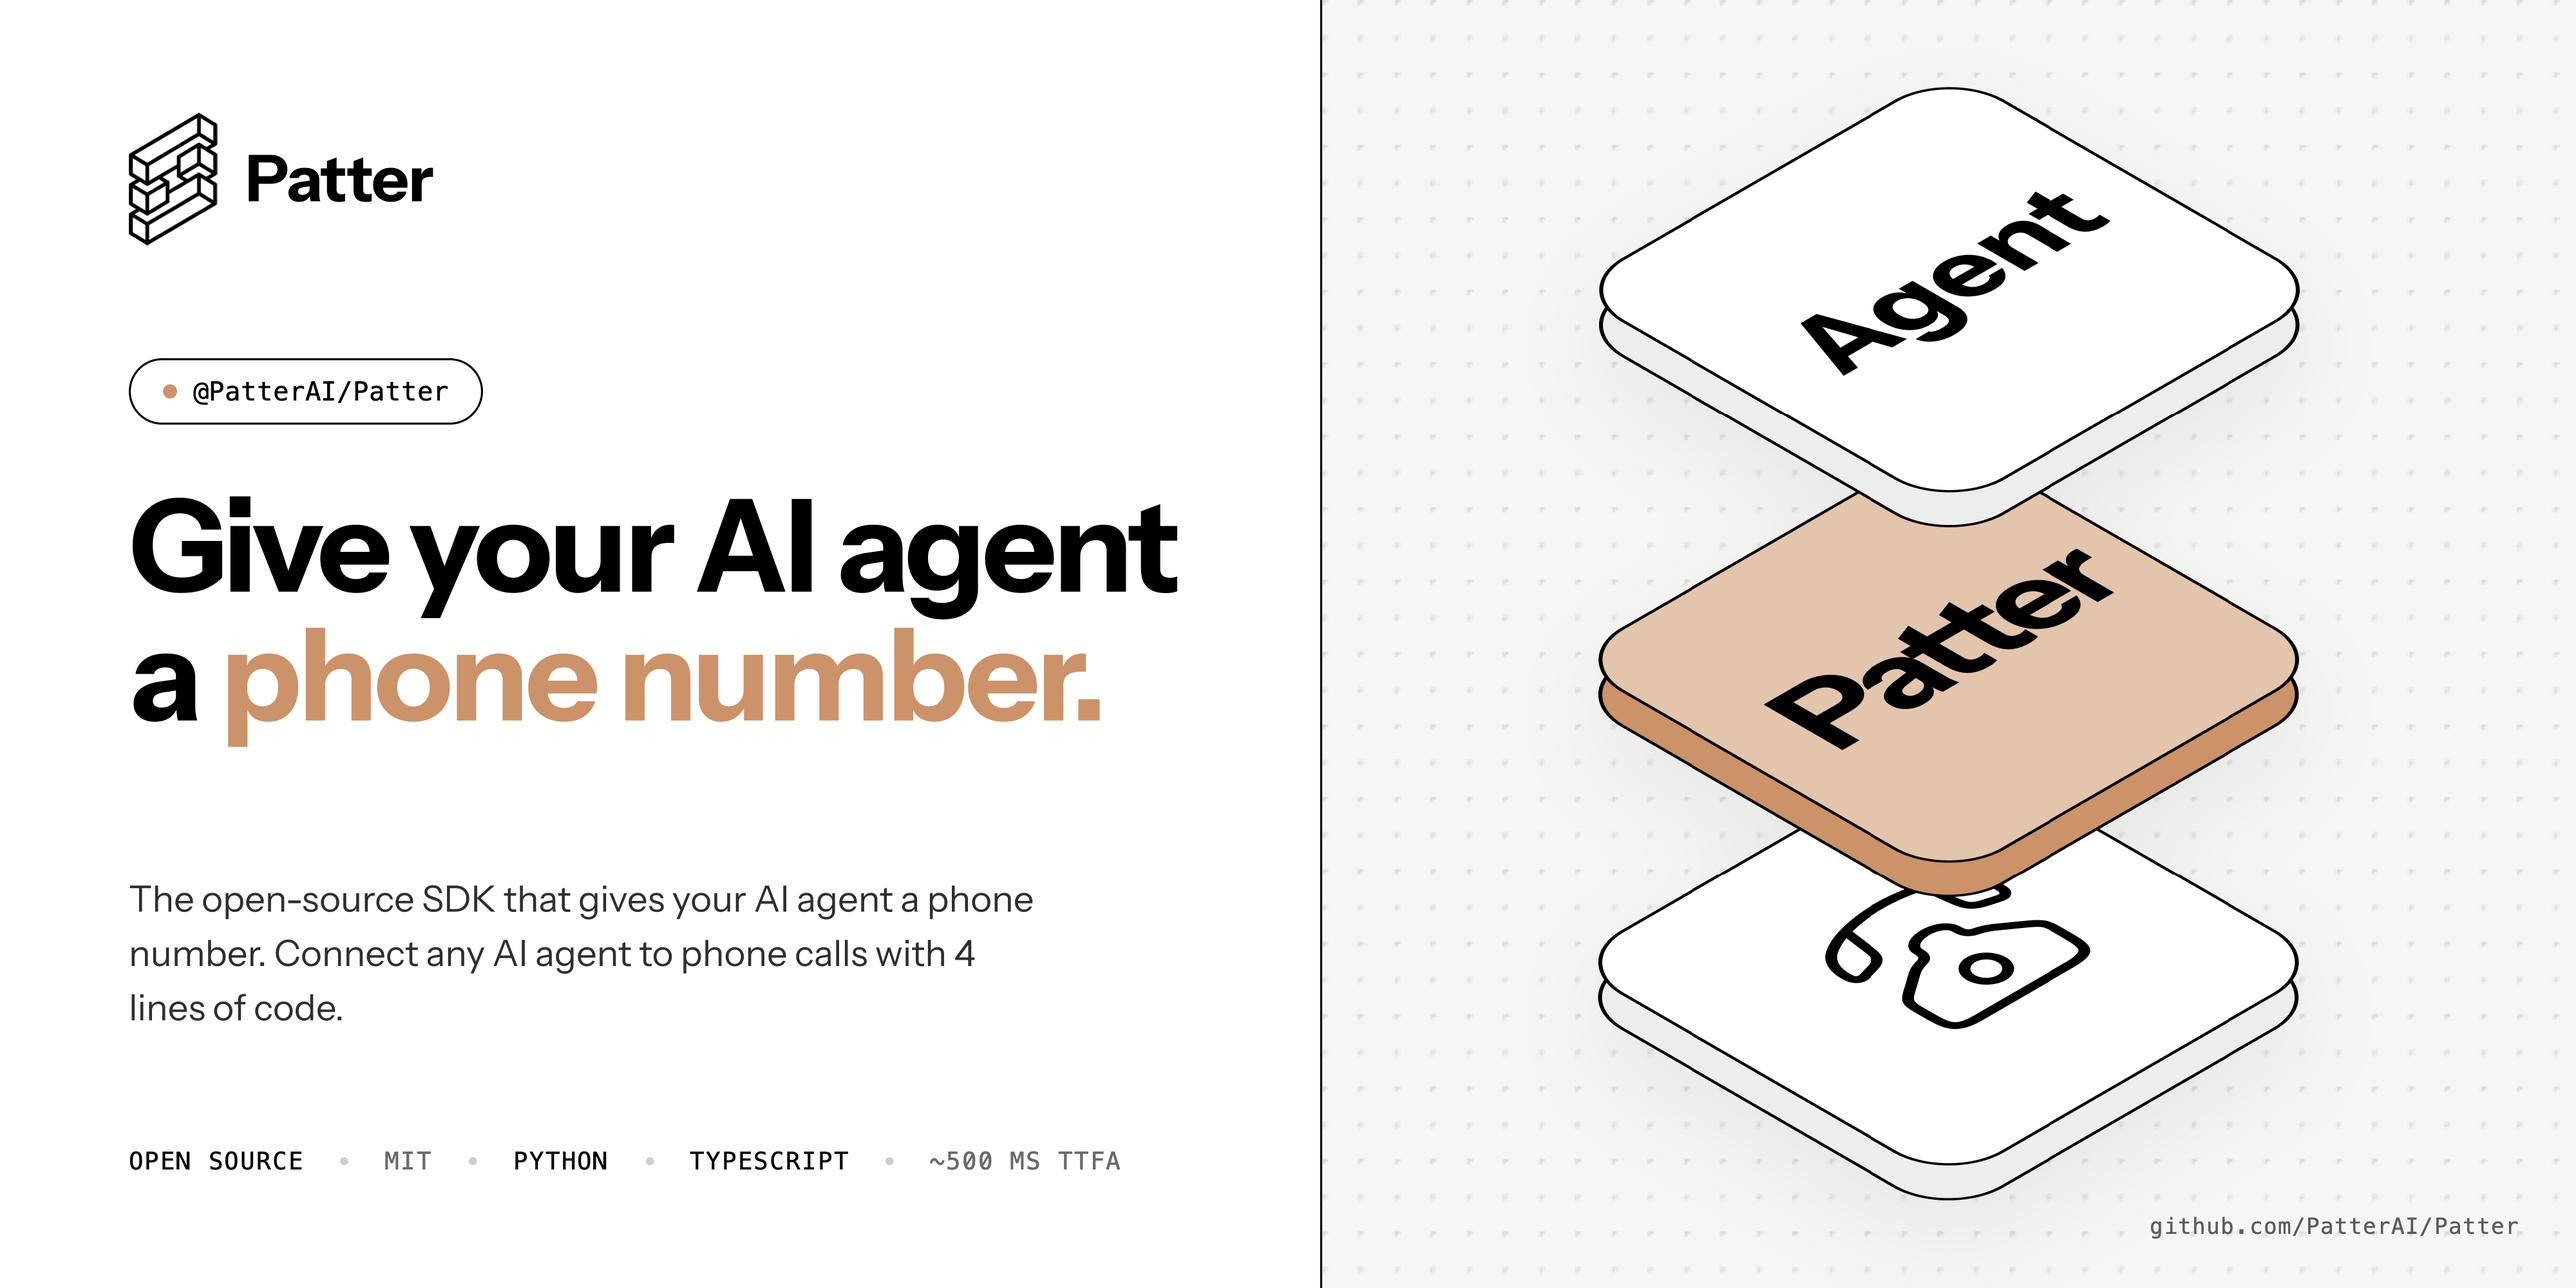
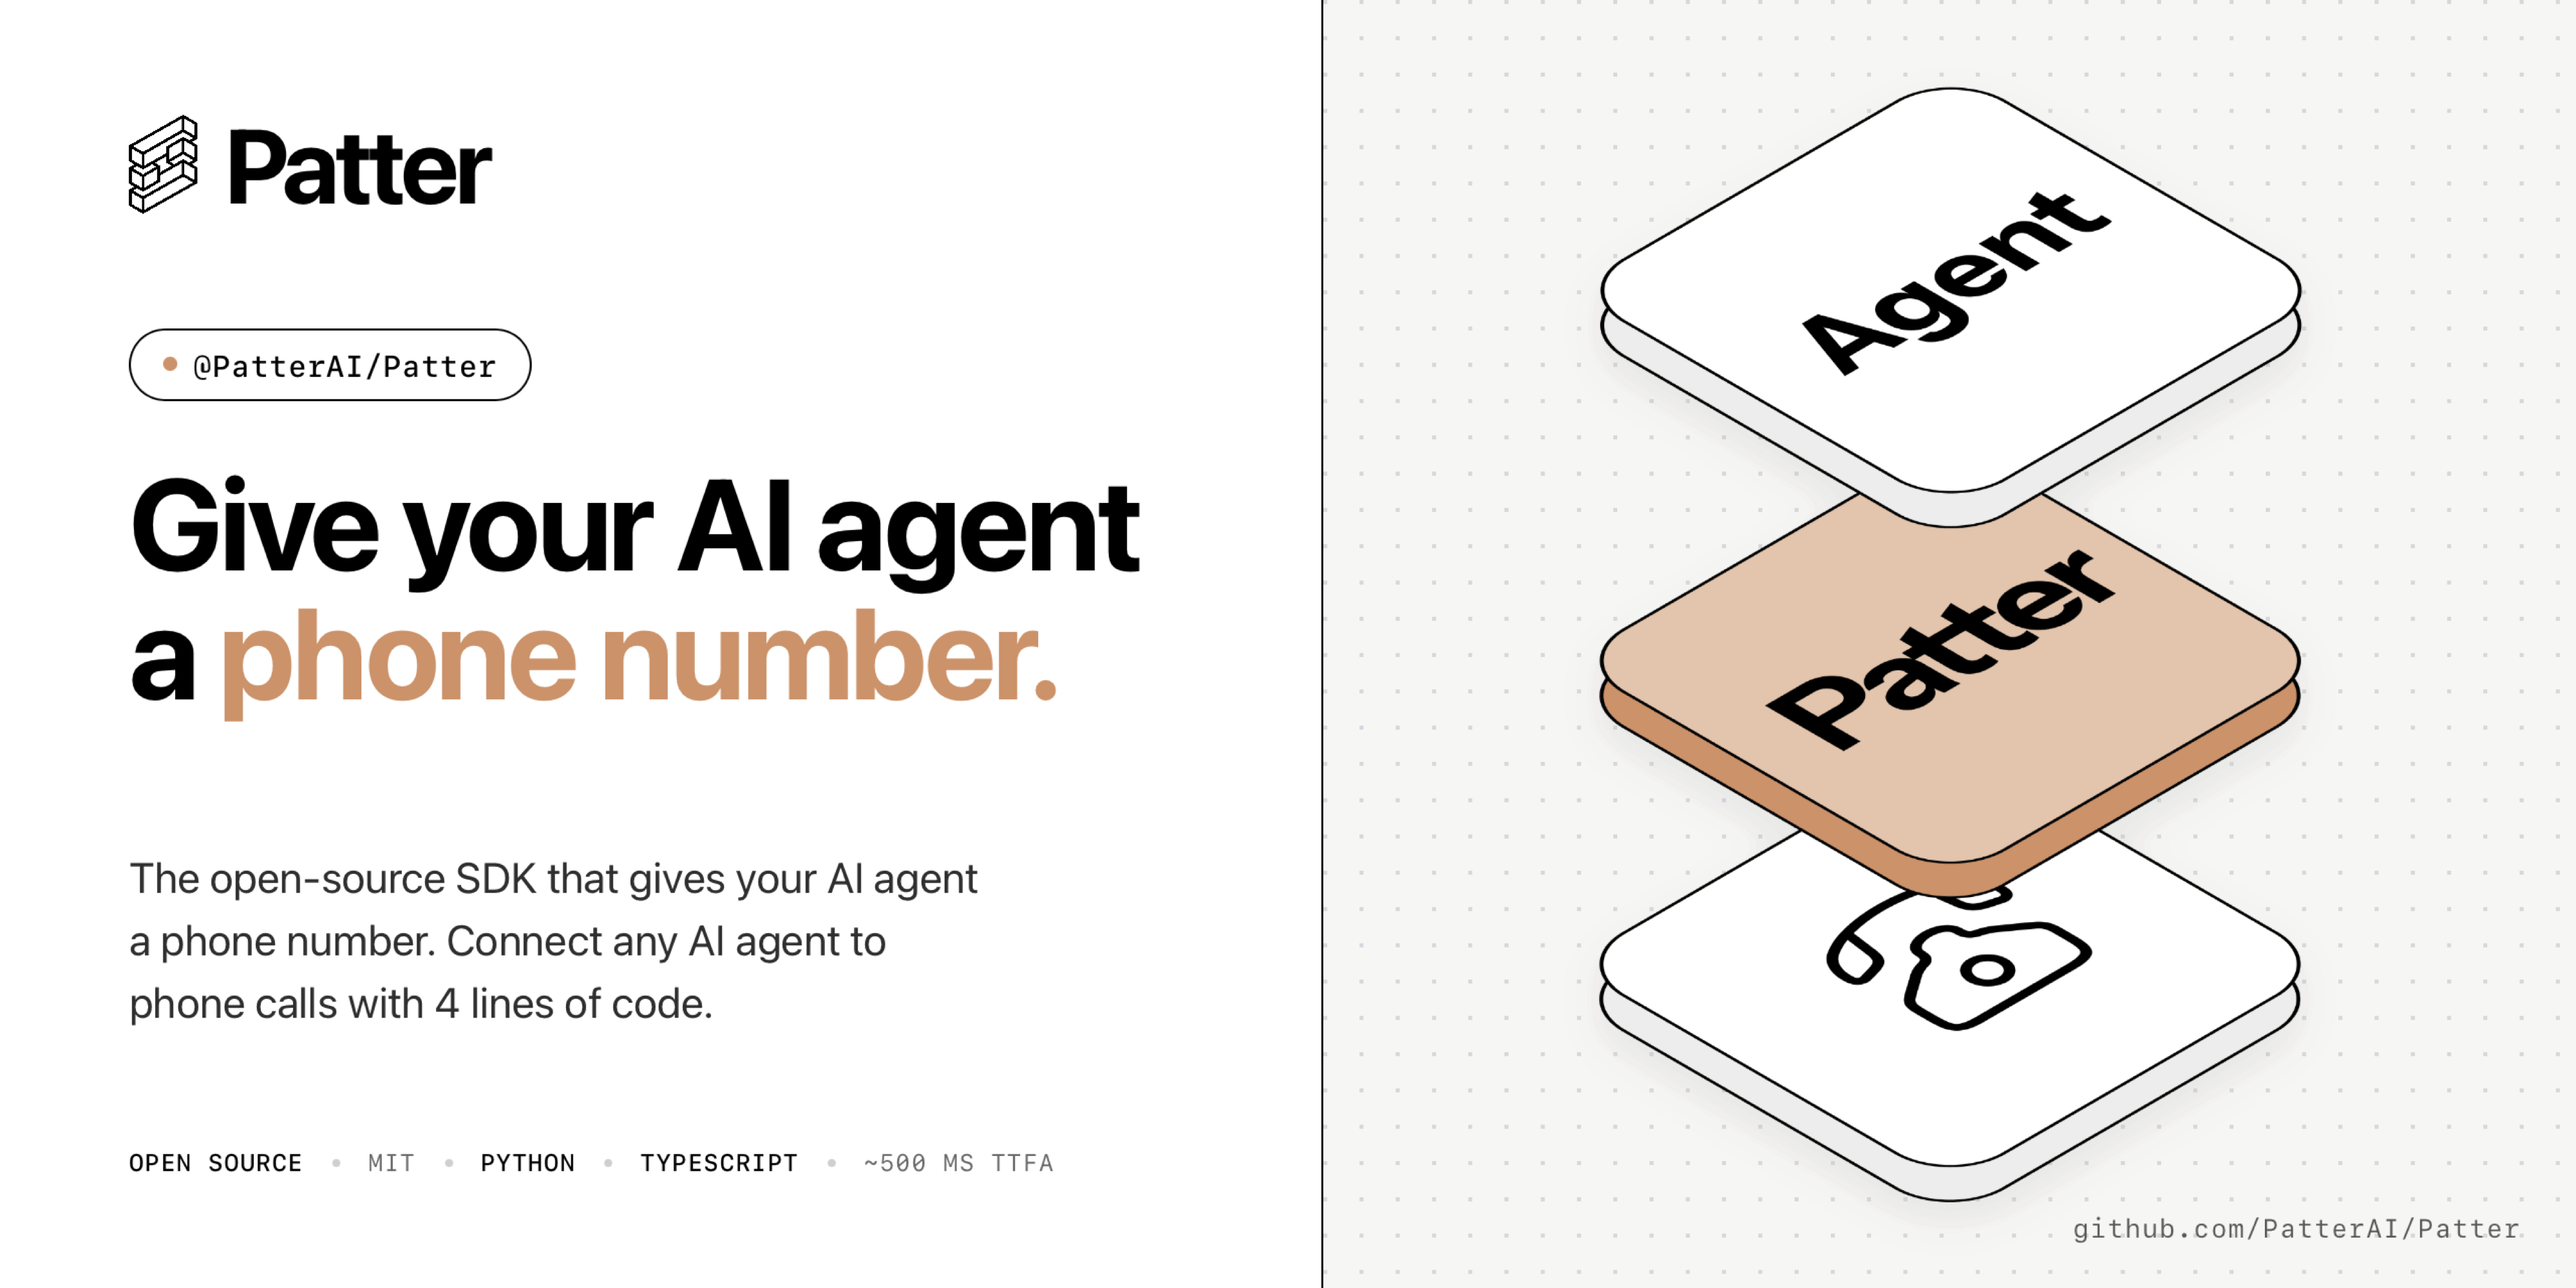
chore(release): 0.6.2
- Bump Python (``__init__.py`` + ``pyproject.toml``) and TypeScript
  (``package.json``) to ``0.6.2``.
- Promote ``## Unreleased`` to ``## 0.6.2 (2026-05-25)`` in CHANGELOG.
- Refresh ``docs/github-banner.png`` with the new branded artwork
  (Agent / Patter stack) used by the README and the GitHub social
  preview.

Bundles the 14-bug fix wave validated live in 0fc4615 (GA Realtime
adapter, prewarm + adoption hardening, dashboard persistence, inbound
caller/callee via ``<Parameter>``, Whisper hallucination filter,
deferred ``response.create`` + ``request_response()``, version
auto-derive, persist default ON, phone-redact default ``full``,
direction in ``metadata.json``, ring-buffer turns preservation, JSONL
transcript backfill, standalone-dashboard ``call_initiated`` relay).

diff --git a/libraries/python/getpatter/__init__.py b/libraries/python/getpatter/__init__.py
@@ -19,7 +19,7 @@ Installation extras:
 See ``pyproject.toml`` and the top-level README for the full matrix.
 """
 
-__version__ = "0.6.1"
+__version__ = "0.6.2"
 
 from getpatter._speech_events import (
     AgentState,

diff --git a/CHANGELOG.md b/CHANGELOG.md
@@ -1,5 +1,7 @@
 ## Unreleased
 
+## 0.6.2 (2026-05-25)
+
 ### Added
 
 - **`OpenAIRealtime2` / `OpenAIRealtime2Adapter` — Python GA Realtime API
